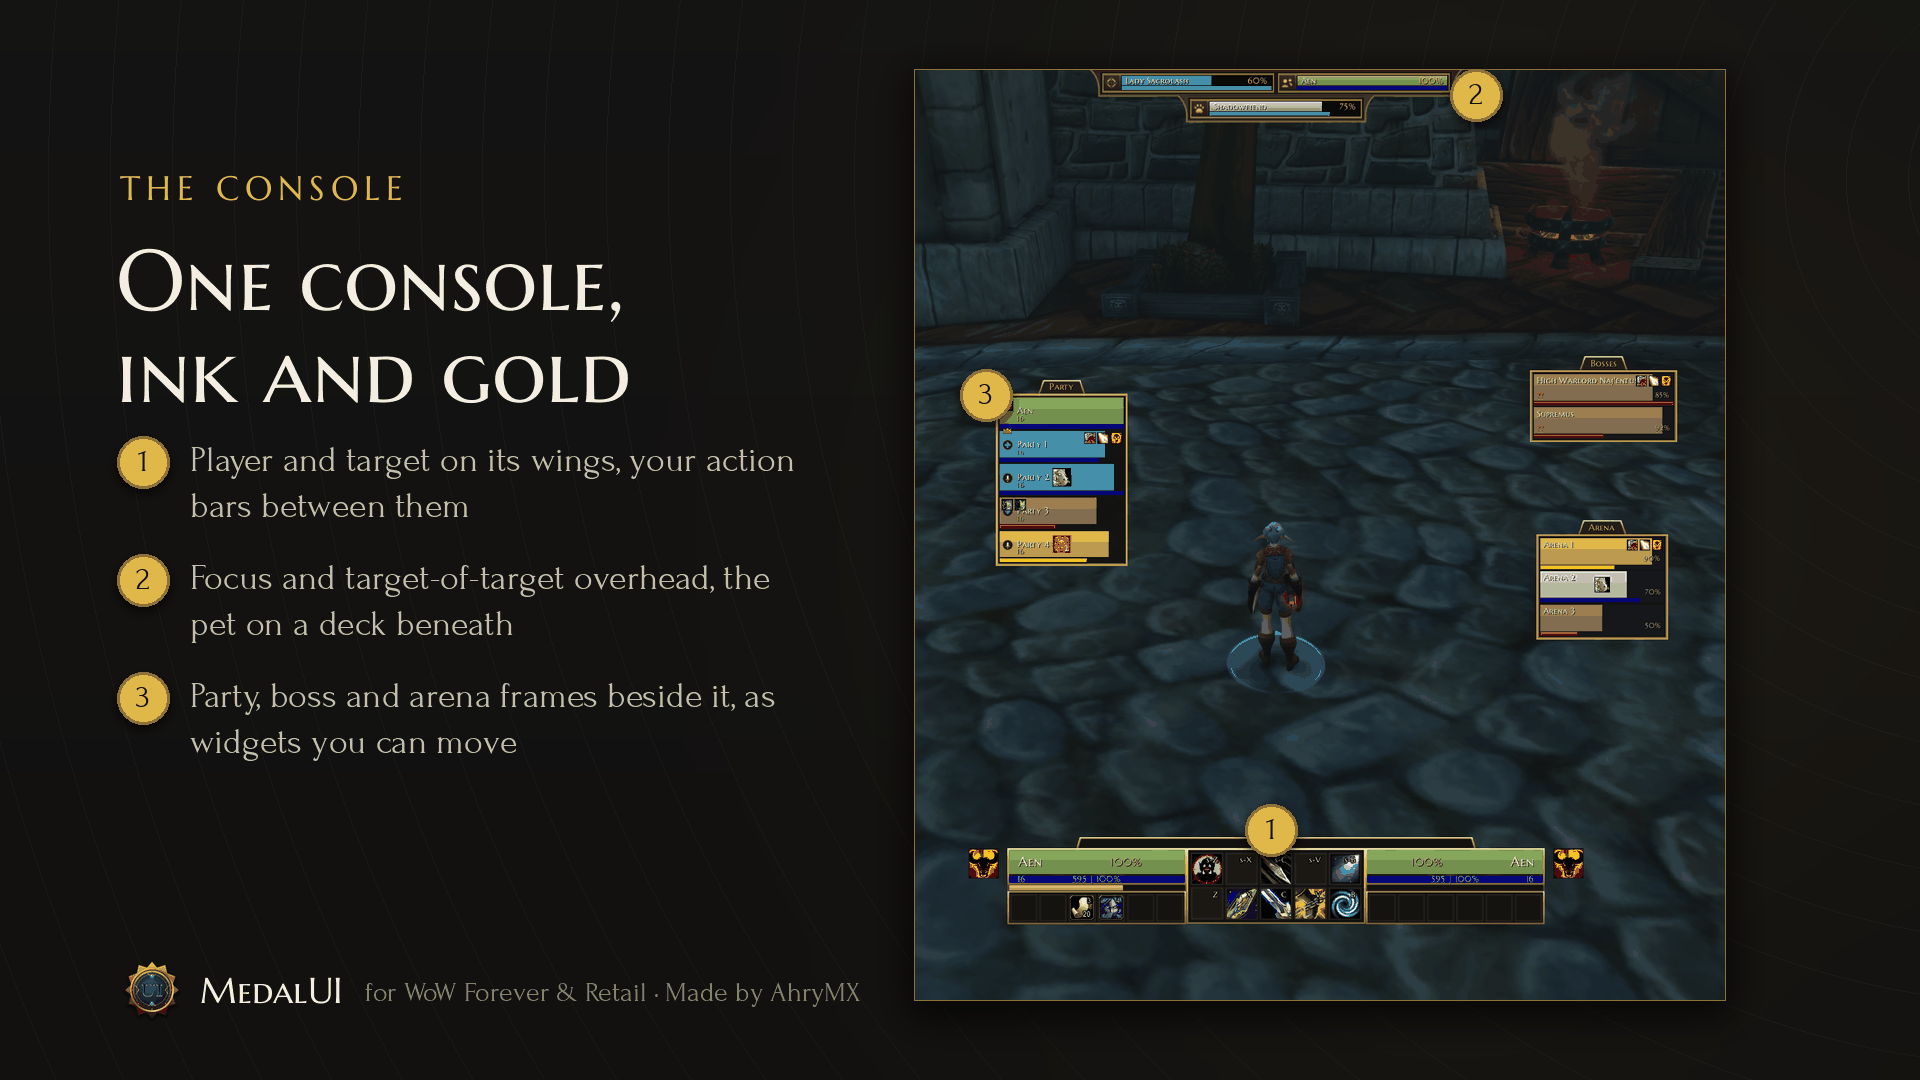
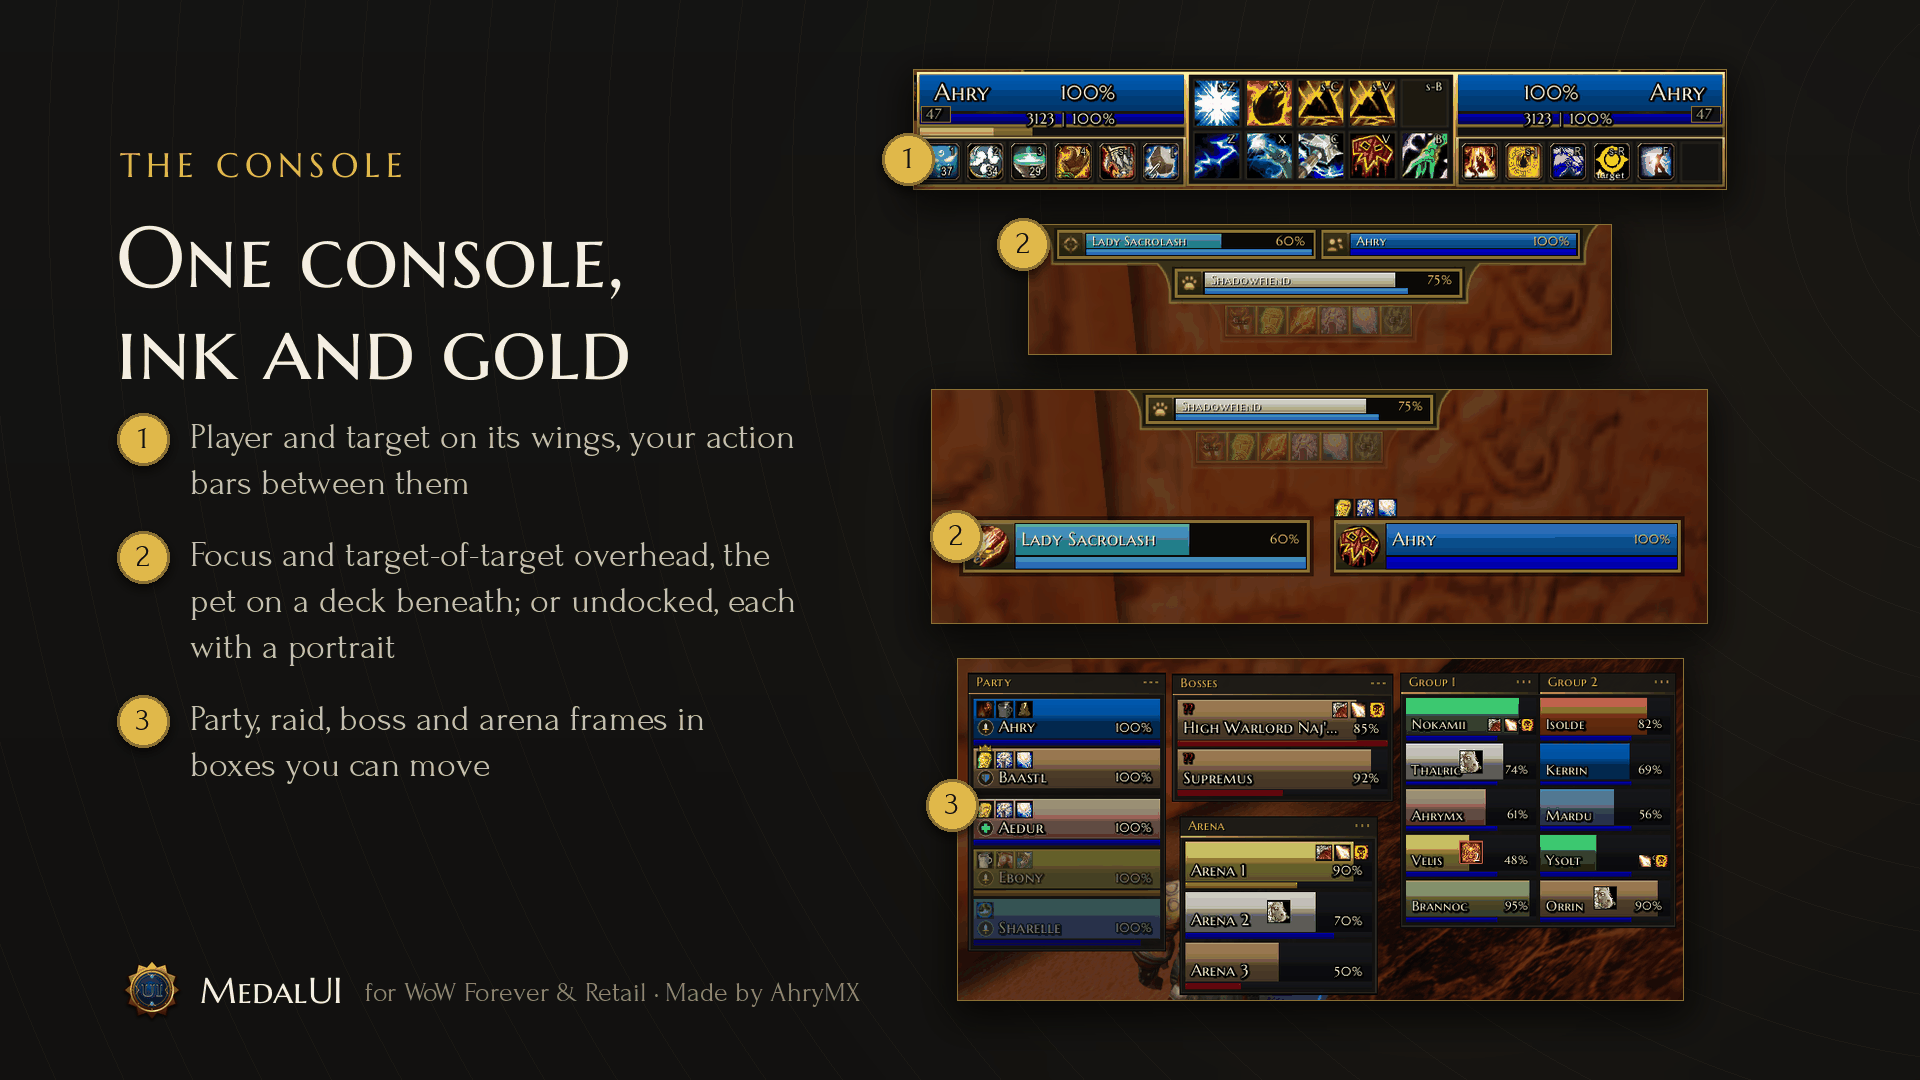
Showcase: console card from new screenshots
The console card shows the restyled frames: player and target on the
wings with the bars between, the overhead docked and undocked, and the
party, boss, arena and raid boxes with their header strips. The new
shots go in showcase/src; the old console-overhead.png is removed.
README's alt text and group-frames bullet follow.

diff --git a/tools/showcase.py b/tools/showcase.py
@@ -53,9 +53,12 @@ def src(name):
 CARDS = [
     dict(key="console", label="The console", title="One console, ink and gold",
          items=["Player and target on its wings, your action bars between them",
-                "Focus and target-of-target overhead, the pet on a deck beneath",
-                "Party, boss and arena frames beside it, as widgets you can move"],
-         imgs=[("console-overhead.png", None, [(1, 551, 1176), (2, 868, 39), (3, 110, 503)])], place="row"),
+                "Focus and target-of-target overhead, the pet on a deck beneath; or undocked, "
+                "each with a portrait",
+                "Party, raid, boss and arena frames in boxes you can move"],
+         imgs=[("console-bar.png", None, [(1, -6, 92)]), ("overhead.png", None, [(2, -6, 20)]),
+               ("overhead-undocked.png", None, [(2, 24, 150)]), ("group-frames.png", None, [(3, -6, 150)])],
+         place="column", most=1.3),
     dict(key="themes", label="Themes", title="A theme for every class", layout="top",
          sub="Every window takes your class's colour, or stays in ink and gold.",
          imgs=[("theme-gold.png", (0, 0, 582, 1000), []), ("theme-teal.png", (0, 0, 582, 1000), []),

diff --git a/README.md b/README.md
@@ -18,12 +18,12 @@ Runs on **WoW Forever** (`16001`) and **Retail** (`120105`).
 
 ## The console
 
-![MedalUI's console card: the Reticule console with player and target on its wings and the action bars between them, the overhead's focus and target-of-target over the pet, and the party, boss and arena widgets at the sides](https://raw.githubusercontent.com/ahrymx/ahrymx.MedalUI/main/showcase/cards/01-console.png)
+![MedalUI's console card: player and target on the console's wings with the action bars between them, the overhead's focus and target-of-target over the pet's deck, the same undocked with portraits, and the party, boss, arena and raid boxes](https://raw.githubusercontent.com/ahrymx/ahrymx.MedalUI/main/showcase/cards/01-console.png)
 
 - **Two profiles:** the slim **Reticule** (default), with the minimap in the console's bay, or the round **Arena**. *Arena is a work in progress: expect rough edges.*
 - **Action bars:** one to three rows, with Blizzard's button art or bare icons. Empty buttons hide and come back while you drag a spell, item or macro.
 - **Class power and cast bars** are built into the console: combo points, holy power, runes, soul shards and the rest.
-- **Party, raid, boss and arena** frames sit on the console's own row or in widgets you can drag. **Minimal OoC Mode** fades the console out of combat.
+- **Party, raid, boss and arena** frames sit in boxes you drag by their header. **Minimal OoC Mode** fades the console out of combat.
 
 ## Themes
 
